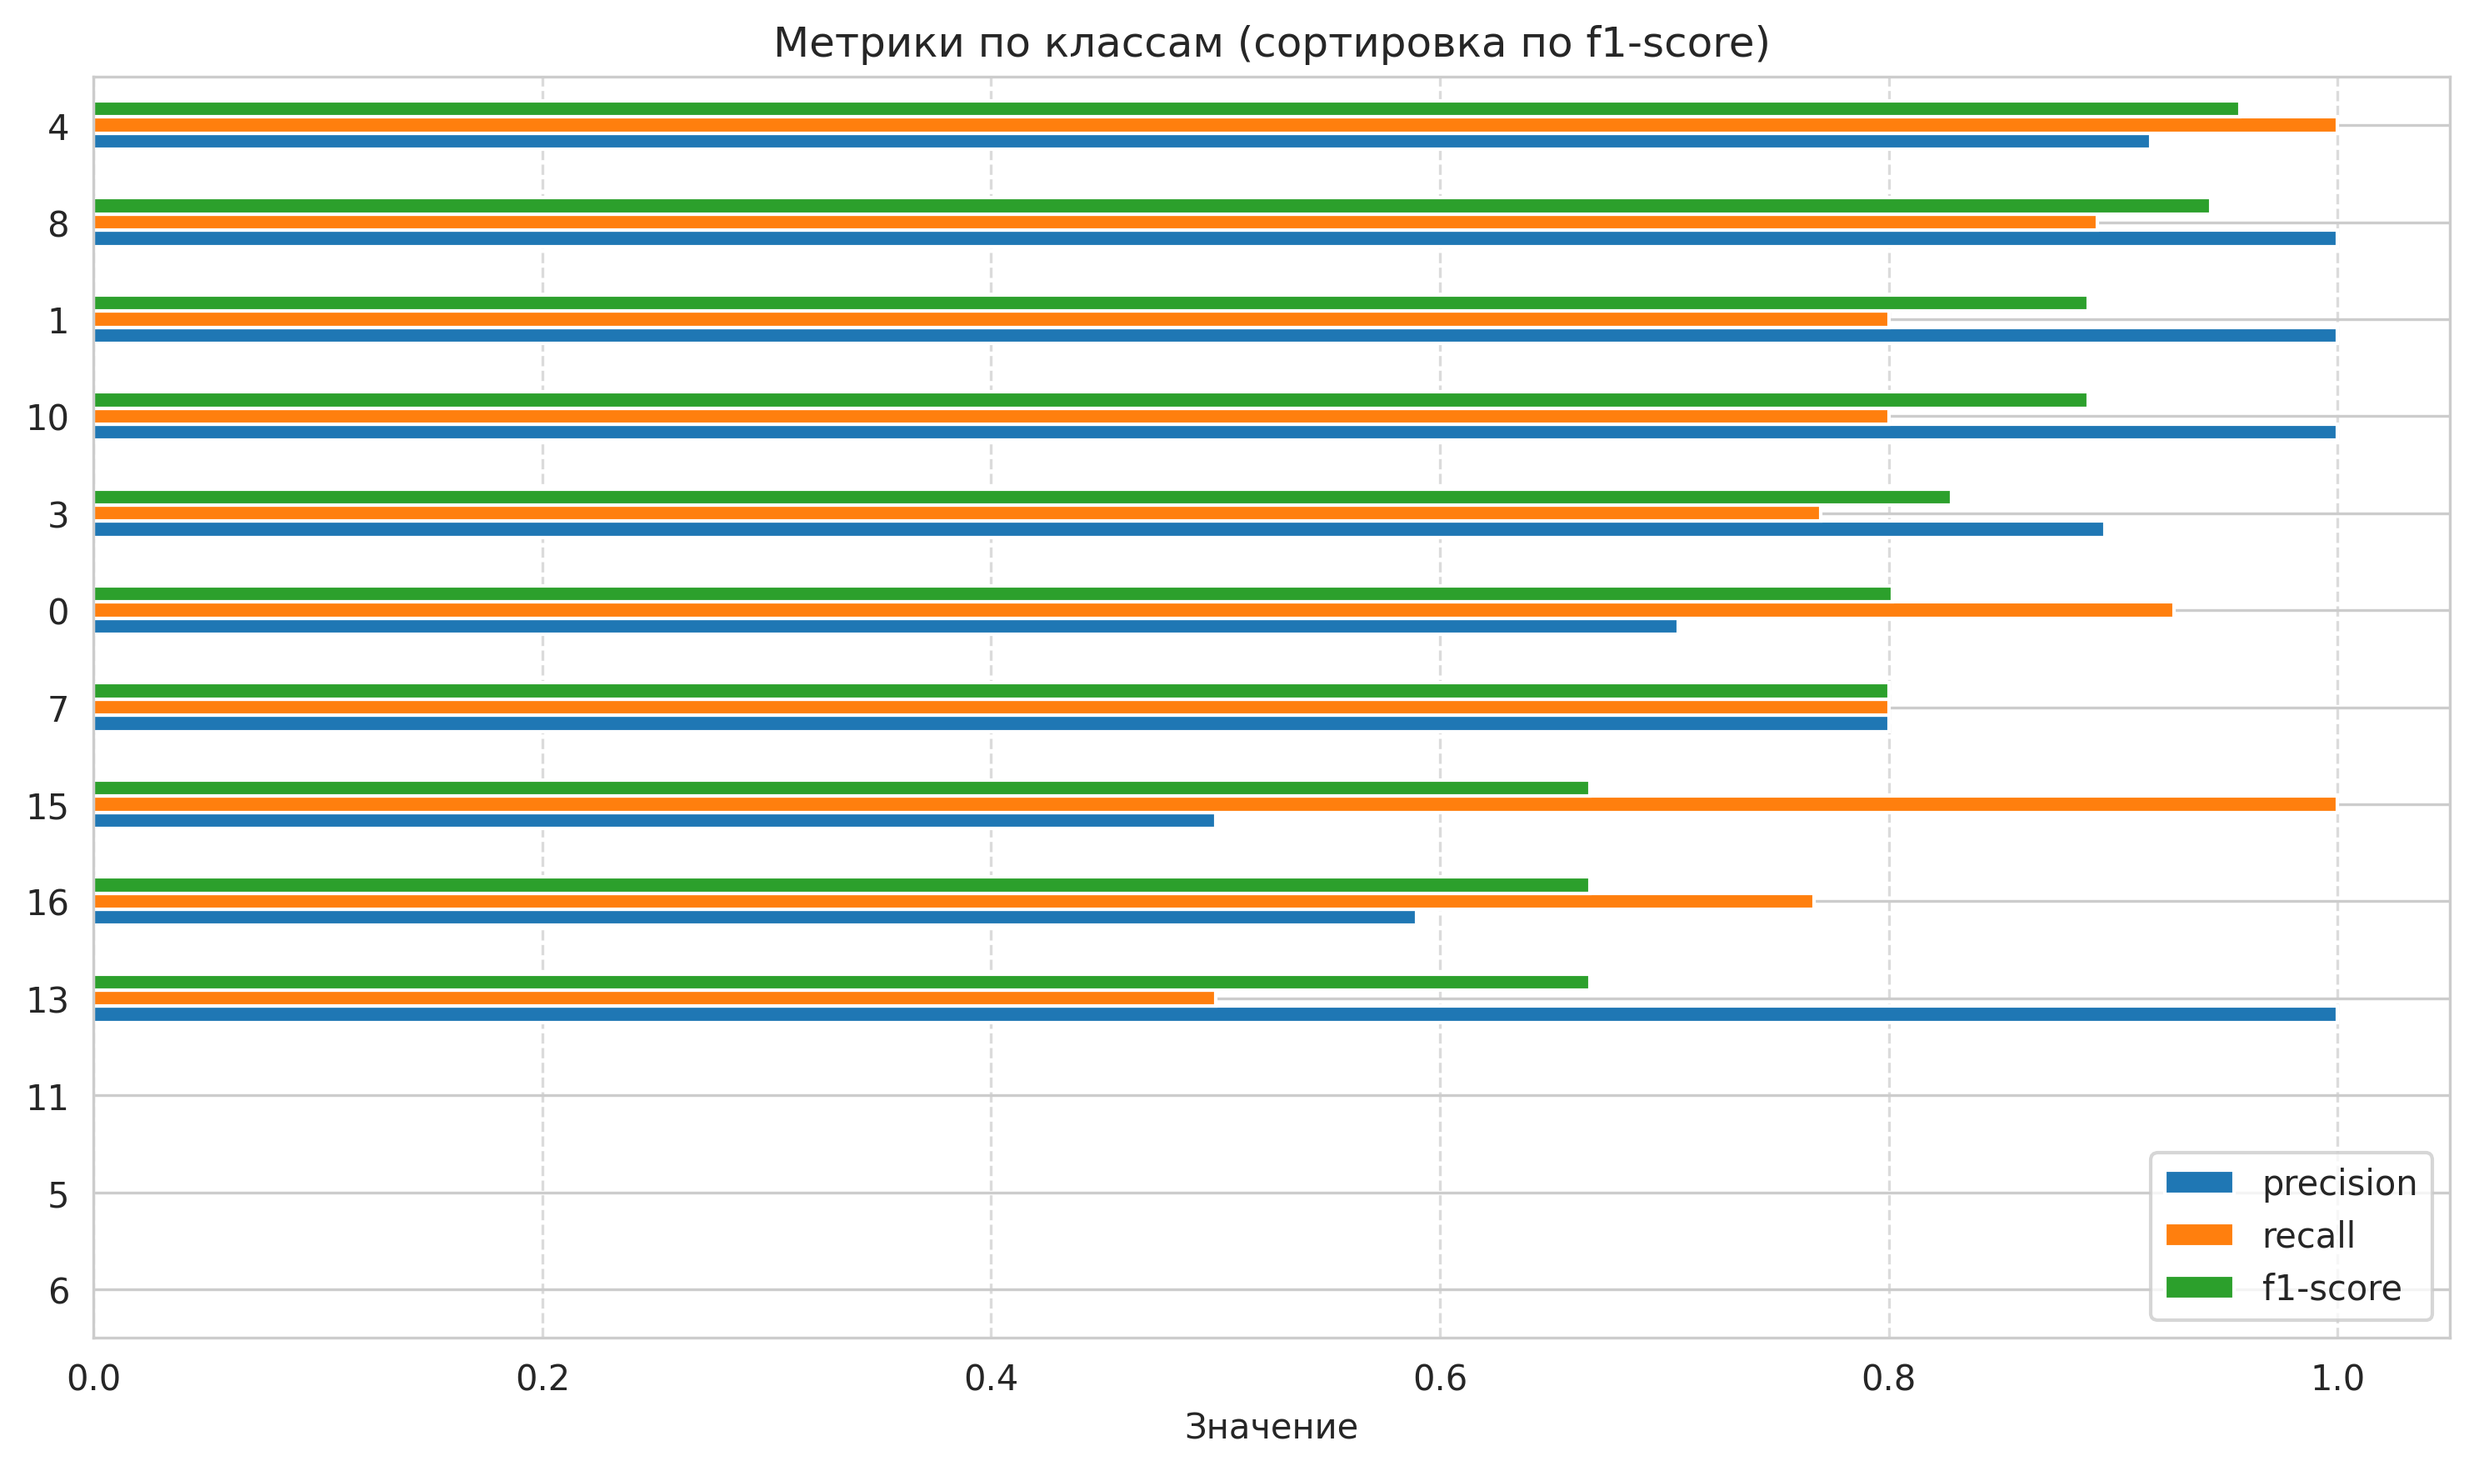
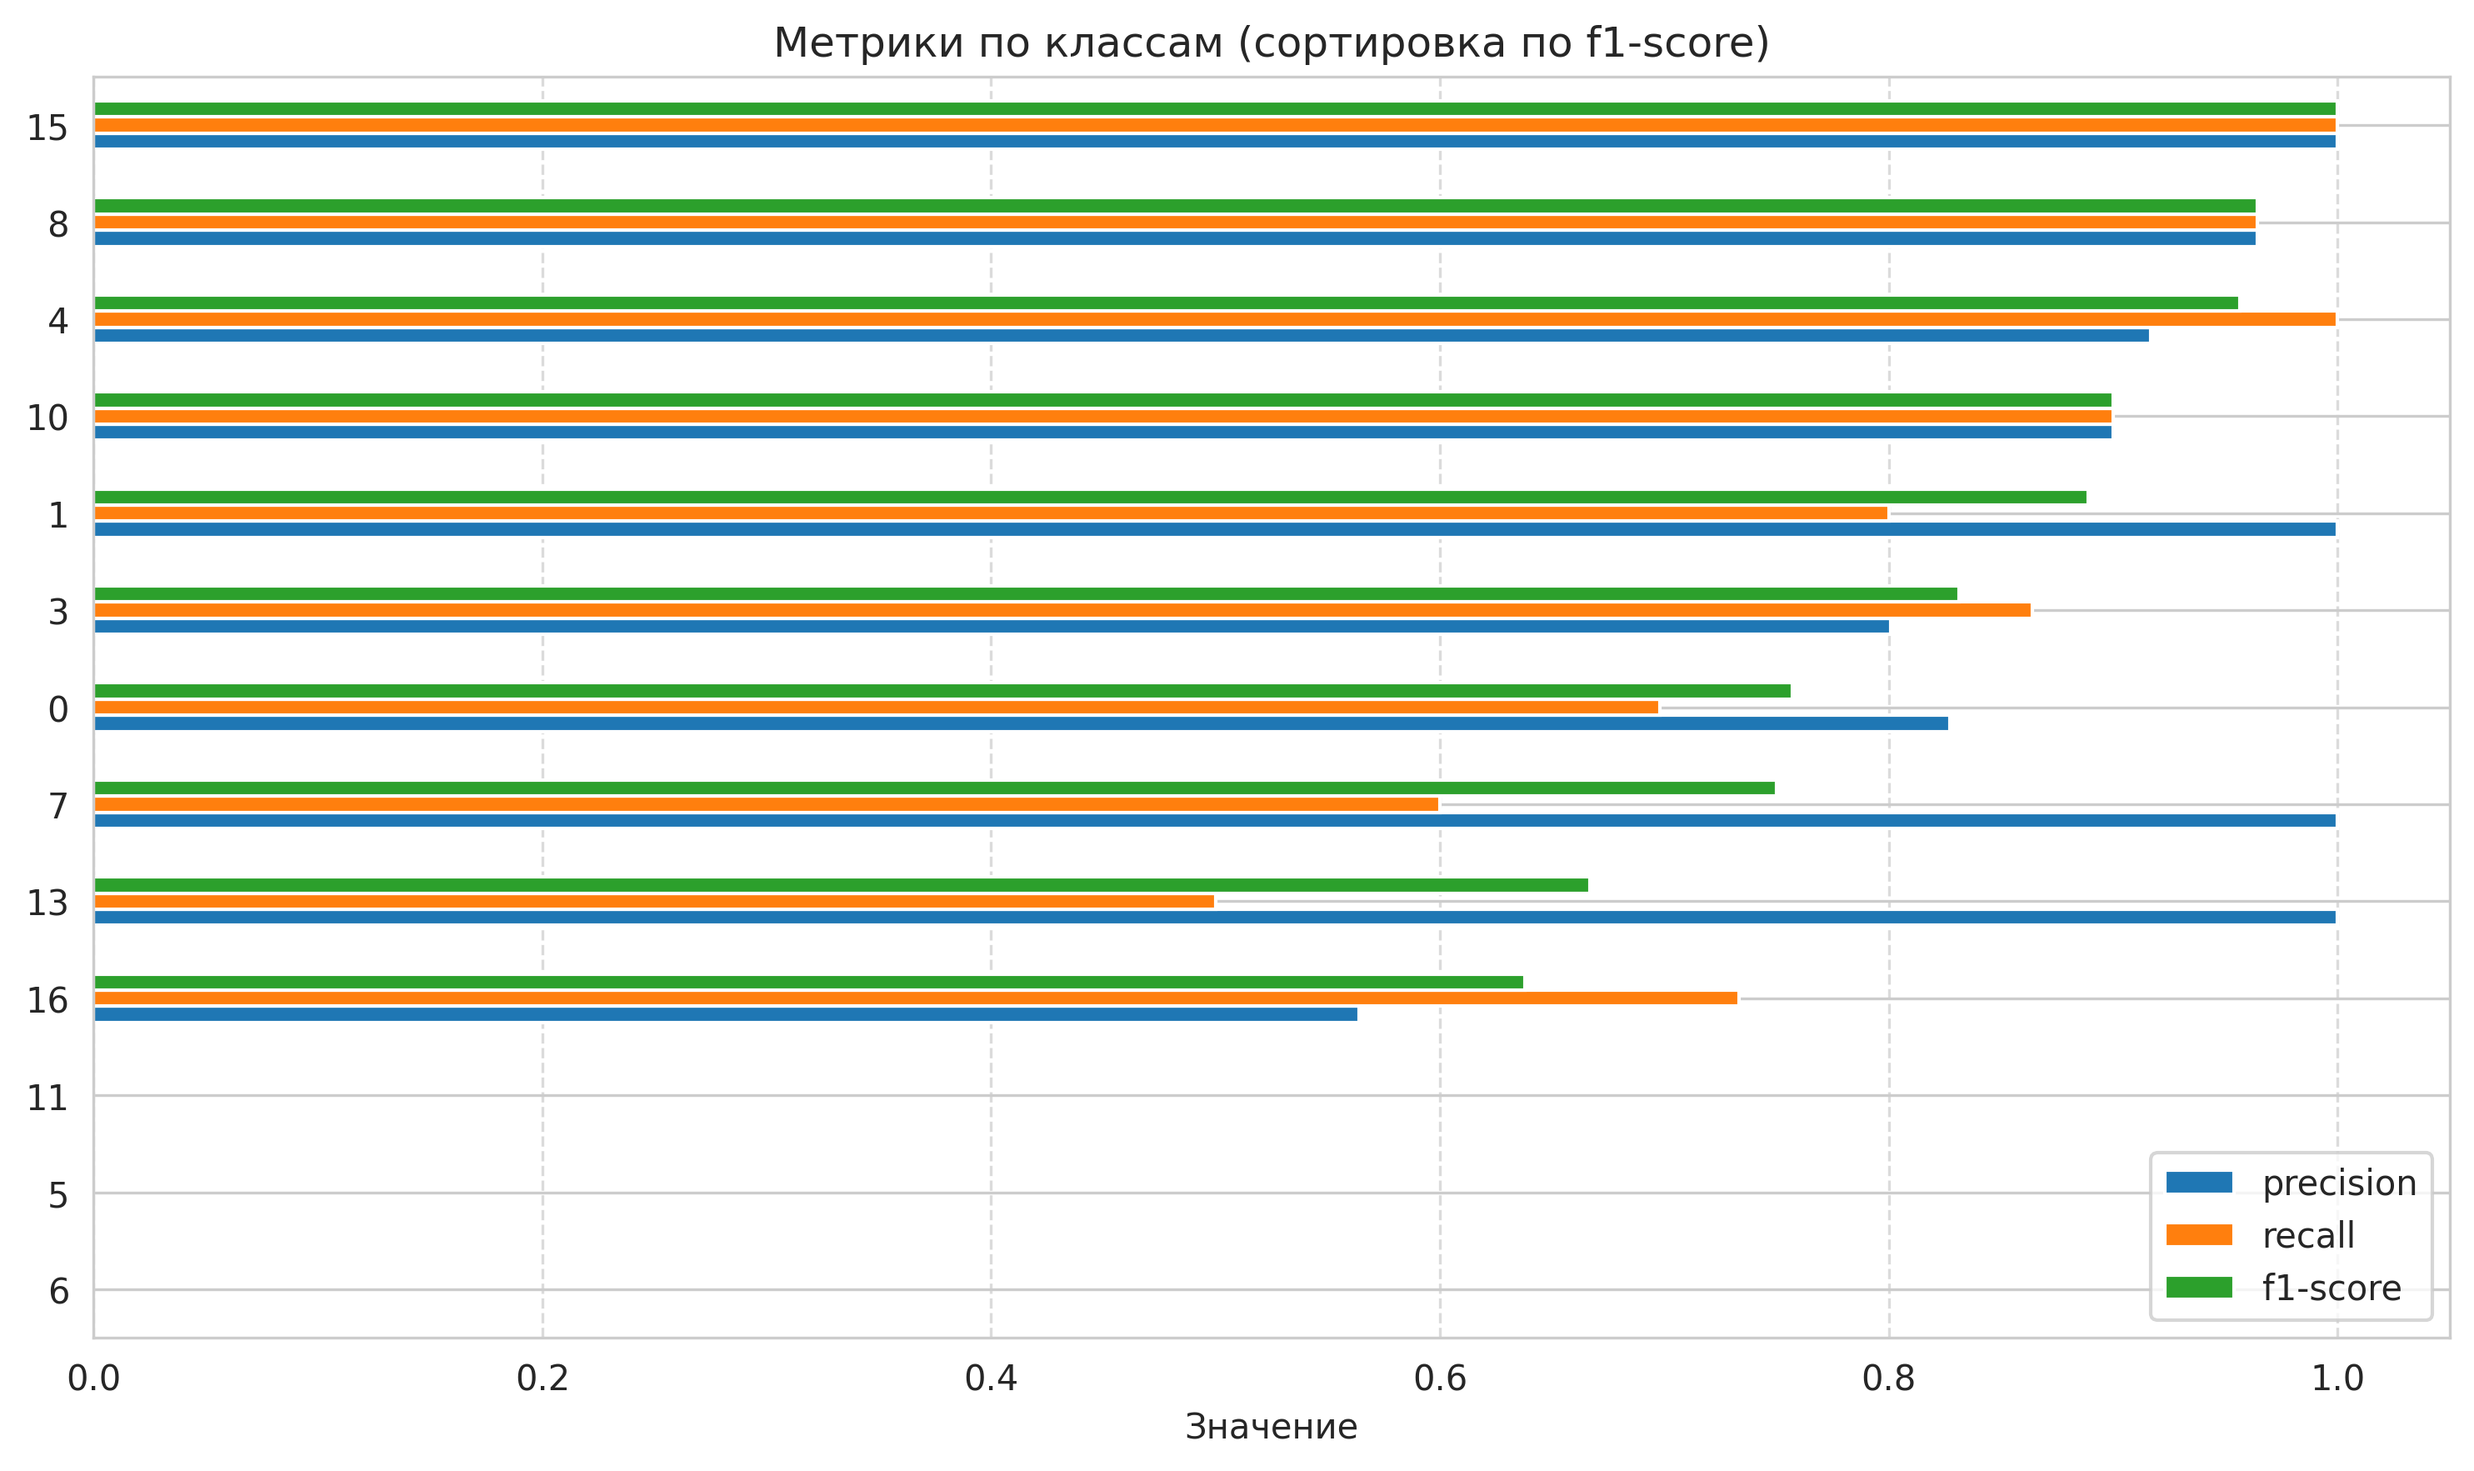
Backend, API module and rubert metrics (model weights excluded)

diff --git a/src/inference/predictor.py b/src/inference/predictor.py
@@ -1,0 +1,46 @@
+import pandas as pd
+
+from src.models.models import MODEL_REGISTRY, BaseModel
+
+
+def _class_ids(model: BaseModel) -> list[int]:
+    """Индекс i в predict_proba(...) не обязательно равен Категория=i (у sklearn/CatBoost
+    classes_ может быть с пропусками после фильтра редких классов) — проверяем по очереди
+    сам объект, обёрнутую sklearn/CatBoost модель, мета-модель ансамбля."""
+    for candidate in (model, getattr(model, "model", None), getattr(model, "meta_model", None)):
+        if candidate is not None and hasattr(candidate, "classes_"):
+            return [int(c) for c in candidate.classes_]
+    return list(range(model.num_labels))  # TransformerModel: индекс входа == значение метки
+
+
+class Predictor:
+    """Оборачивает уже обученную модель в интерфейс text -> предсказание + статистика.
+    Не зависит от train-пайплайна — только from_saved()/predict()."""
+
+    def __init__(self, model: BaseModel, category_names: dict[int, str] | None = None):
+        self.model = model
+        self.category_names = category_names or {}
+        self.class_ids = _class_ids(model)
+
+    @classmethod
+    def from_saved(cls, kind: str, path: str, category_names: dict[int, str] | None = None) -> "Predictor":
+        model = MODEL_REGISTRY[kind].load(path)
+        return cls(model, category_names)
+
+    def _name(self, category_id: int) -> str:
+        return self.category_names.get(category_id, str(category_id))
+
+    def predict(self, text: str) -> dict:
+        proba = self.model.predict_proba(pd.Series([text]))[0]
+        ranked = sorted(zip(self.class_ids, proba), key=lambda x: -x[1])
+        top_id, top_p = ranked[0]
+        return {
+            "category_id": top_id,
+            "category_name": self._name(top_id),
+            "confidence": float(top_p),
+            "probabilities": {self._name(cid): float(p) for cid, p in ranked},
+            "top_3": [
+                {"category_id": cid, "category_name": self._name(cid), "probability": float(p)}
+                for cid, p in ranked[:3]
+            ],
+        }

diff --git a/src/api/main.py b/src/api/main.py
@@ -1,0 +1,69 @@
+from fastapi import FastAPI
+import uvicorn
+import random
+from pydantic import BaseModel
+
+
+app = FastAPI()
+
+@app.get("/")
+def read_root():
+    return {"Hello": random.randint(1, 20)}
+
+class ClassifyRequest(BaseModel):
+    text: str
+
+@app.post("/classify")
+async def classify(request: ClassifyRequest):
+    # теперь в ответе будет сам текст, а не объект
+    user_text = request.text.lower()
+
+    clean_user_text = clean_text_for_rubert(user_text)
+
+    if len(clean_user_text) > 10:
+        reply = 'Больше 10'
+    else:
+        reply = 'Меньше...'
+
+    return {
+        "test": "successfully",
+        "your_text": request.text,
+        "clean_text": clean_user_text,
+        "answer": reply
+    } 
+
+class ClassifyResponse(BaseModel):
+    category_id: int
+    category_name: str
+    confidence: float
+    probabilities: dict[str, float]
+    top_3: list[dict]
+
+
+import re
+import html
+import pymorphy3
+from nltk.corpus import stopwords
+from time import perf_counter
+
+def clean_text_for_rubert(text):
+    text = html.unescape(text)
+    text = re.sub(r'<[^>]+>', ' ', text)
+    text = re.sub(r'\s+', ' ', text)
+    text = text.replace('`', '"')
+
+    return text.strip()
+
+
+
+
+if __name__ == "__main__":
+    uvicorn.run("main:app")
+
+
+# http://127.0.0.1:8000/docs
+
+
+# {
+#   "text": "Привет, мир!"
+# }

diff --git a/src/inference/labels.py b/src/inference/labels.py
@@ -1,0 +1,20 @@
+# Черновая расшифровка Категория -> название, по итогам Тематика внутри каждой (см. data/raw).
+CATEGORY_NAMES: dict[int, str] = {
+    0: "Дороги и уличная инфраструктура",
+    1: "Безнадзорные животные",
+    2: "Госуслуги",
+    3: "Городское благоустройство (освещение, деревья, колодцы)",
+    4: "Здравоохранение",
+    5: "Культура и памятники",
+    6: "Социальная поддержка",
+    7: "Дошкольное образование",
+    8: "Общественный транспорт",
+    9: "Связь и интернет",
+    10: "Социальные выплаты и пособия",
+    11: "Строительство",
+    12: "Тестовая категория",
+    13: "Торговля и услуги",
+    14: "Труд и занятость",
+    15: "Спорт",
+    16: "Свалки и отходы",
+}

diff --git a/src/models/models.py b/src/models/models.py
@@ -330,8 +330,8 @@ class EnsembleModel(BaseModel):
 
     @classmethod
     def from_config(cls, model_cfg, **extra):
-        base_model_path = [(model, model_cfg.base_models[model]) for model in model_cfg.base_models]
-        return cls.from_pretrained(base_model_path, meta_model = model_cfg.meta_model)
+        specs = [next(iter(entry.items())) for entry in model_cfg.base_models]
+        return cls.from_pretrained(specs)
 
     @classmethod
     def from_pretrained(cls, specs, meta_model=None):

diff --git a/src/api/schema.py b/src/api/schema.py
@@ -1,0 +1,18 @@
+from pydantic import BaseModel
+from fastapi import FastAPI
+
+app = FastAPI()
+
+@app.post("/classify", response_model=ClassifyResponse)
+class ClassifyRequest(BaseModel):
+    text: str
+    if text < 
+
+    app.state.predictor.predict(payload.text)
+
+class ClassifyResponse(BaseModel):
+    category_id: int
+    category_name: str
+    confidence: float
+    probabilities: dict[str, float]
+    top_3: list[dict]

diff --git a/src/models/main.py b/src/models/main.py
@@ -147,3 +147,6 @@ with mlflow_ctx:
         mlflow.log_artifact(run_log_path)
         mlflow.log_artifact(logger.log_path)
         log_model_artifact(model_fit)
+
+    
+    model_fit.save('/home/andrew/worka/NLP_classification/models/final_model')
